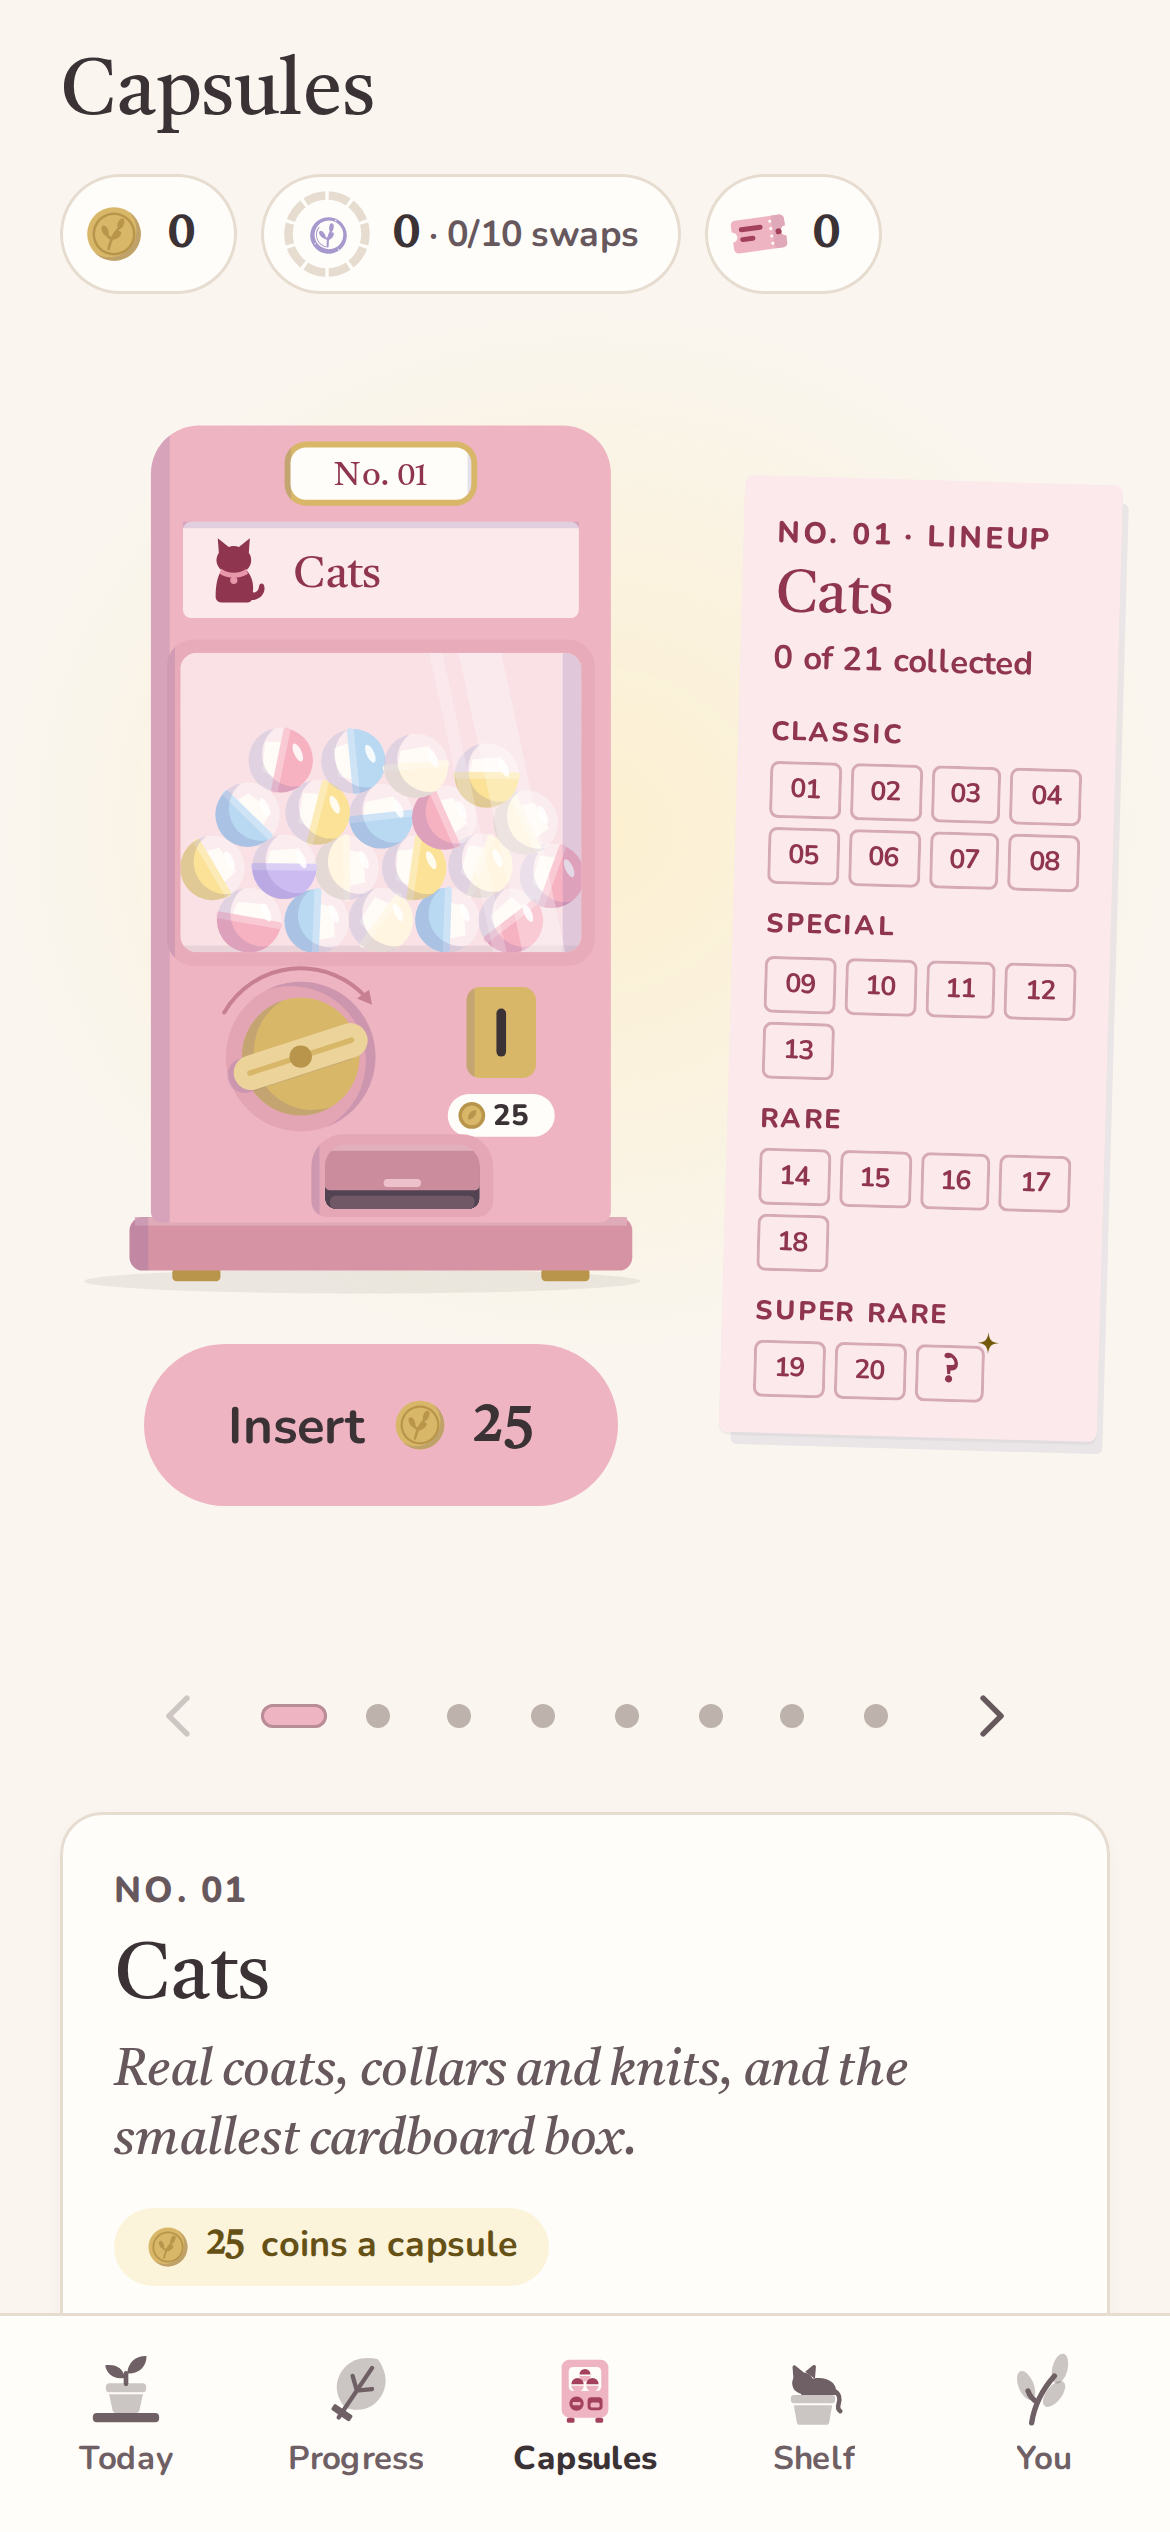
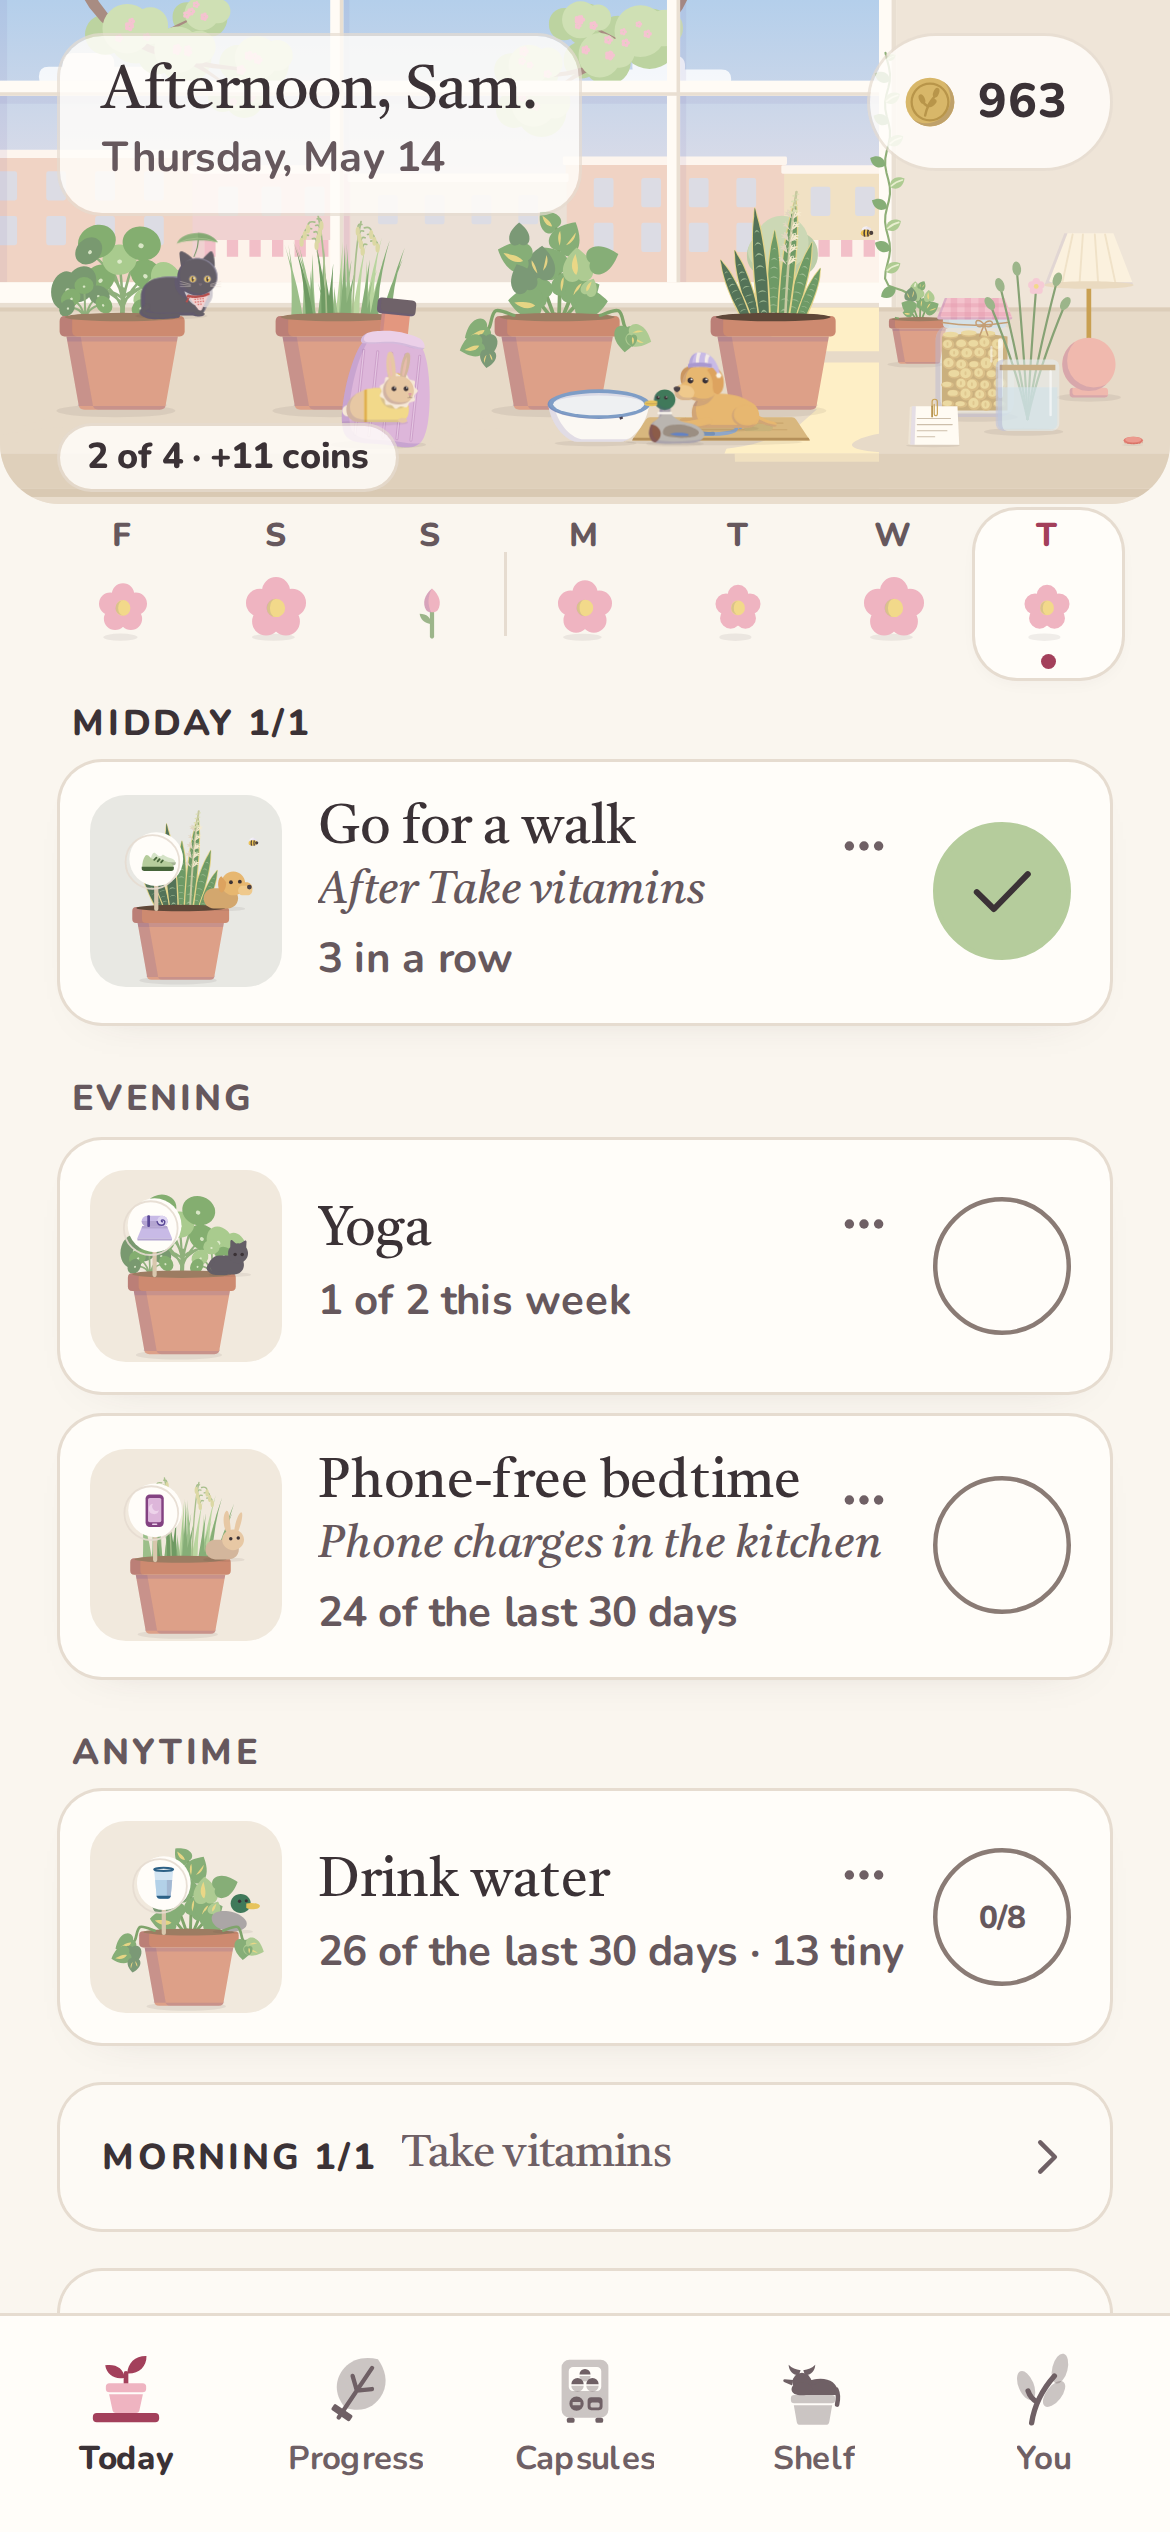
Manifest: the narrow screenshot is Today, both drawn from the demo household (a first boot is onboarding now)
Claude-Session: https://claude.ai/code/session_0157LYJp5GmjUfvpf1xGPonJ

diff --git a/vite.config.ts b/vite.config.ts
@@ -60,7 +60,7 @@ export const MANIFEST: Partial<ManifestOptions> = {
     },
   ],
   screenshots: [
-    { src: 'screenshots/narrow-1170x2532.png', sizes: '1170x2532', type: 'image/png', form_factor: 'narrow', label: 'The Cats capsule cabinet, on a phone' },
+    { src: 'screenshots/narrow-1170x2532.png', sizes: '1170x2532', type: 'image/png', form_factor: 'narrow', label: 'Today: the windowsill band and the day’s habits, on a phone' },
     { src: 'screenshots/wide-2560x1600.png', sizes: '2560x1600', type: 'image/png', form_factor: 'wide', label: 'The Shelf: the windowsill, two pets and the places to buy' },
   ],
 };
